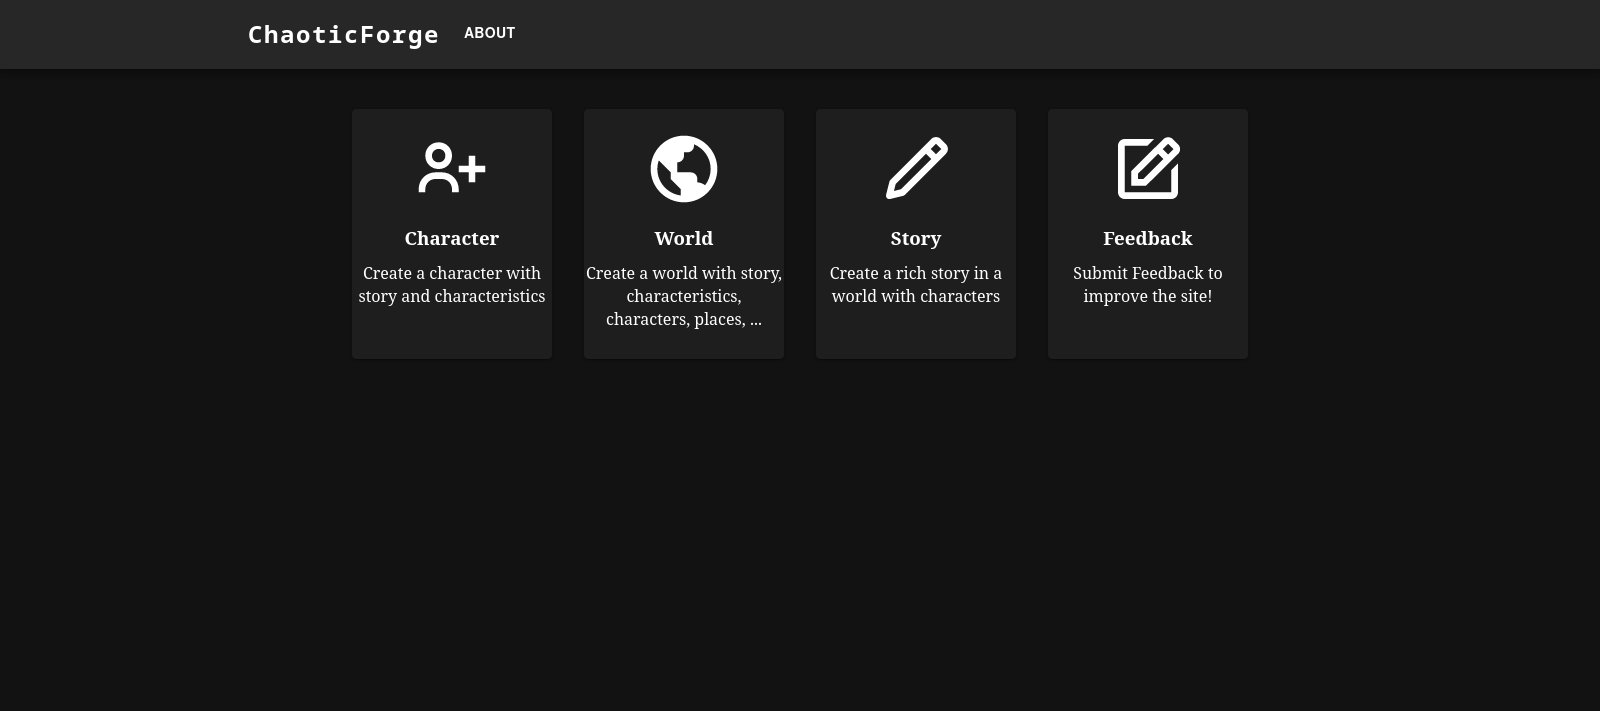
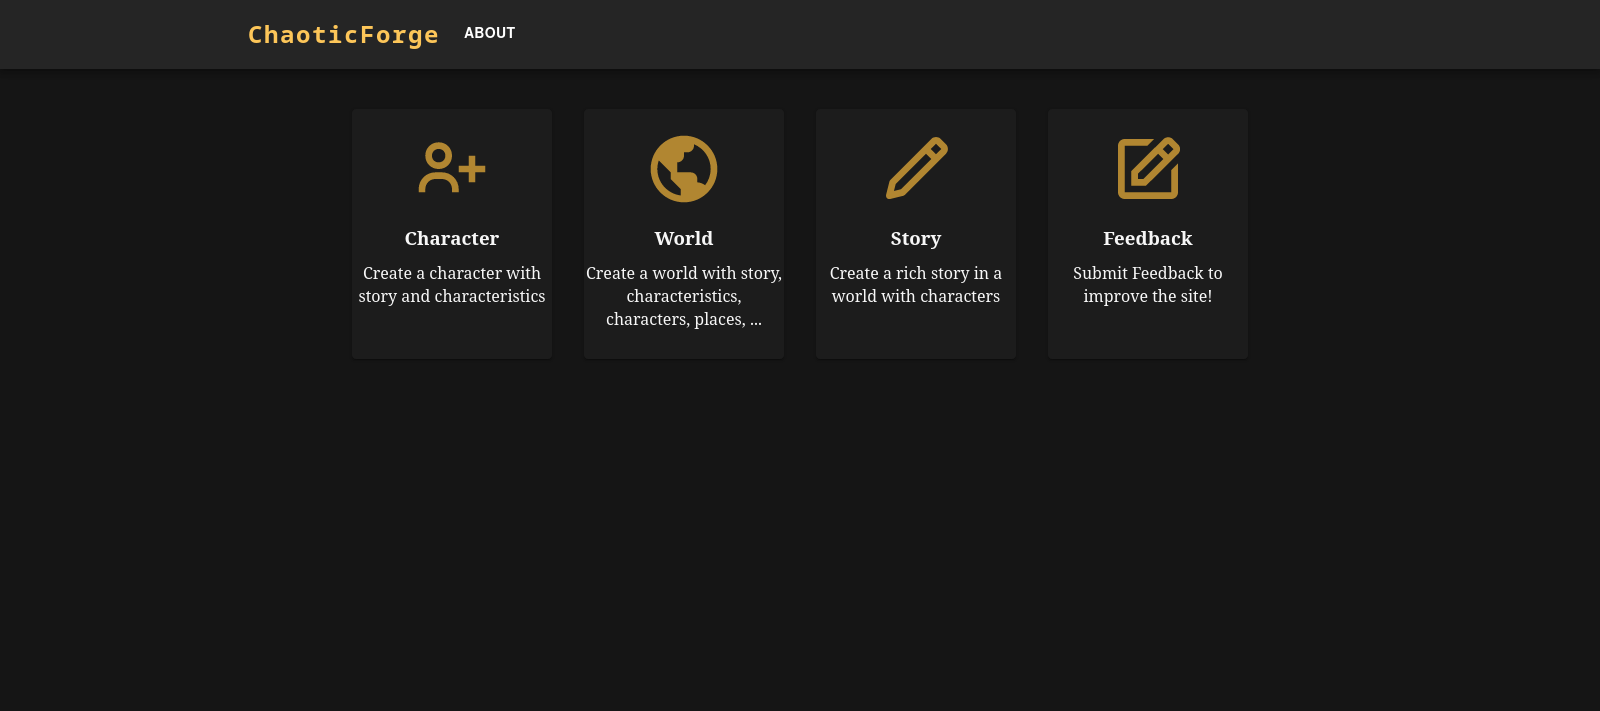
Changed site theme

diff --git a/src/frontend/components/HomeItem.tsx b/src/frontend/components/HomeItem.tsx
@@ -1,7 +1,8 @@
 import React from "react"
 import { IconType } from "react-icons"
-import {Grid, Paper, Typography} from "@mui/material"
+import {Grid, Paper, Typography, Icon} from "@mui/material"
 import Link from './Link';
+import {useTheme} from "@mui/material";
 
 interface itemProps {
     type : string;
@@ -12,6 +13,8 @@ interface itemProps {
   }
   
 export default function HomeItem( props : itemProps){
+    const theme : any = useTheme();
+
     return (
         <Grid key={1} item>
             <Paper
@@ -24,16 +27,18 @@ export default function HomeItem( props : itemProps){
                 <Link to={props.href} onclick={props.onclick}>
                     {
                         props.icon  && ( 
-                            <props.icon
-                                style={{
-                                    marginTop : "20px",
-                                    marginLeft : "auto" ,
-                                    marginRight : "auto",
-                                    marginBottom: "0px",
-                                    width : "100%",
-                                    height : "80px"
-                                }}
-                            />
+
+                        <props.icon
+                            style={{
+                                marginTop : "20px",
+                                marginLeft : "auto" ,
+                                marginRight : "auto",
+                                marginBottom: "0px",
+                                width : "100%",
+                                height : "80px",
+                                color : theme.palette.primary.main
+                            }}
+                        />
                         )
                     }
 

diff --git a/src/frontend/pages/About.tsx b/src/frontend/pages/About.tsx
@@ -1,23 +1,49 @@
 import { Container, Typography } from "@mui/material"
 import React from "react"
+import Link from "../components/Link"
+import {useTheme} from "@mui/material"
 
 export default function About(){
-
+    const theme = useTheme();
 
     return <div>
 
         <Container
             sx={{
-                marginTop : "50px"
+                marginTop : "50px",
+                maxWidth : {
+                    sm : "900px"
+                }
             }}
         >
 
 
             <Typography
                 variant="h1"
+                sx={{
+                    color : "primary.main"
+                }}
             >
                 About
+
+                
             </Typography>
+
+            <p>
+                ChaoticForge A website that offers a variety of creative generators to help writers, RPG players, and other storytellers bring their ideas to life. 
+                With character, name, and world generators, you can have insight's to create complex characters, imaginary worlds, and epic stories. 
+            </p>
+            <a
+                style={{
+                    color: theme.palette.primary.main
+                }}
+
+                target="_blank"
+
+                href="https://github.com/izkeas/ChaoticForge"
+            >
+                See the project on Github!
+            </a>
         </Container>
 
     </div>

diff --git a/src/frontend/components/Link.tsx b/src/frontend/components/Link.tsx
@@ -1,3 +1,4 @@
+import { color } from "@mui/system";
 import React, { MouseEventHandler, MouseEvent } from "react";
 import { Link as Link_ } from "react-router-dom";
 
@@ -5,6 +6,7 @@ interface Props{
     children : React.ReactNode;
     to? : string;
     onclick? : (event : MouseEvent) => void;
+    color? : string;
 }
 
 export default function Link(props : Props){
@@ -12,7 +14,7 @@ export default function Link(props : Props){
     return (
         <Link_ to={props.to} onClick={props.onclick}
             style={{
-                color : "unset",
+                color : props.color || "unset",
                 textDecoration : "none"
             }}
         >

diff --git a/src/frontend/components/Theme.tsx b/src/frontend/components/Theme.tsx
@@ -98,16 +98,23 @@ export default createTheme({
   
   palette: {
     mode : "dark",
+
+    text : {
+      primary : "#f7f7f7",
+      secondary : "#888888",
+      disabled : "#888888"
+    },
     
     primary: {
-      light: '#757ce8',
-      main: '#3f50b5',
-      dark: '#002884',
+      light: '#fdc659',
+      main: '#b18631',
+      dark: '#8e6b27',
       contrastText: '#fff',
     },
 
     background : {
-      default : "#121212"
+      default : "#151515",
+      paper : "#101010"
     },
 
     secondary: {

diff --git a/src/frontend/components/NavigationBar.tsx b/src/frontend/components/NavigationBar.tsx
@@ -29,7 +29,7 @@ export default function NavigationBar(props : NavigationBarProps ){
                                 fontFamily : 'monospace',
                                 fontWeight : 700,
                                 letterSpacing : ".1rem",
-                                color: "inherit",
+                                color: "primary.light",
                                 textDecoration : "none"
                             }}
                         >
